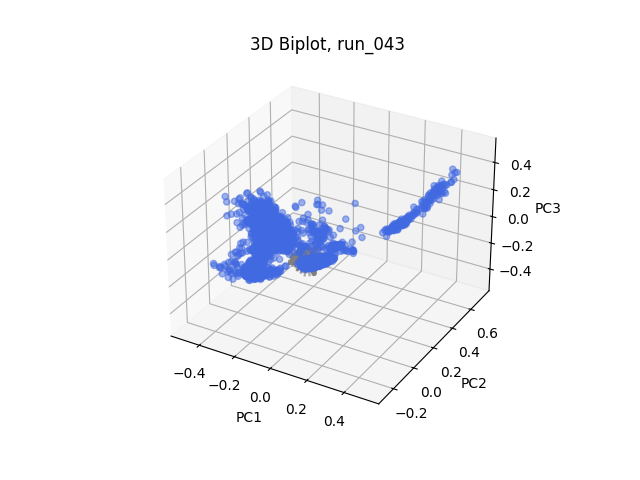
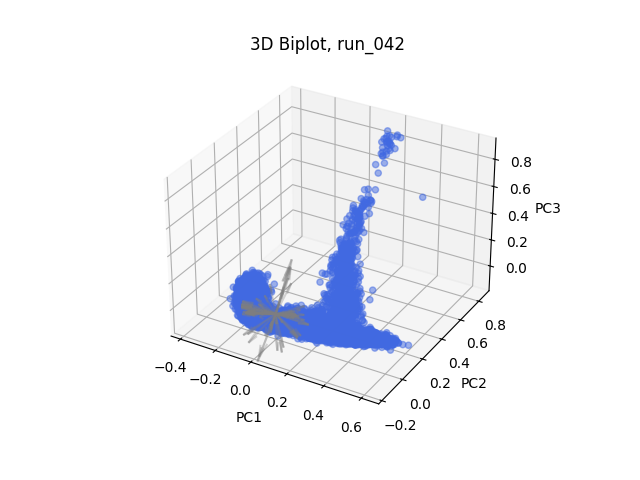
Updated PCA scripts and plots

diff --git a/new/plot_features_pca.py b/new/plot_features_pca.py
@@ -2,15 +2,20 @@ import os
 import pandas as pd
 import numpy as np
 import seaborn as sns
+import argparse
 from sklearn.decomposition import PCA
 from sklearn.preprocessing import StandardScaler
 import matplotlib.pyplot as plt
 
 from config import DATA_FEATURES_DIRECTORY
 
-RUN_NUMBER = 7
+# Initialise argument parser
+parser = argparse.ArgumentParser()
+parser.add_argument("run_number", type=int)
+args = parser.parse_args()
+run_number = args.run_number
 
-csv_path = os.path.join(DATA_FEATURES_DIRECTORY, f"run_{RUN_NUMBER:03d}.csv")
+csv_path = os.path.join(DATA_FEATURES_DIRECTORY, f"run_{run_number:03d}.csv")
 df = pd.read_csv(csv_path)
 
 # Only retain numeric columns with no NaN values
@@ -69,7 +74,7 @@ for i, varnames in enumerate(feature_names):
         head_width=0.01,
         alpha=0.3,
     )
-#  plt.text(xs[i], ys[i], varnames)
+plt.text(xs[i], ys[i], varnames)
 
 xticks = np.linspace(-0.8, 0.8, num=5)
 yticks = np.linspace(-0.8, 0.8, num=5)
@@ -78,6 +83,6 @@ plt.yticks(yticks)
 plt.xlabel("PC1")
 plt.ylabel("PC2")
 
-plt.title(f"2D Biplot, run_{RUN_NUMBER:03d}")
+plt.title(f"2D Biplot, run_{run_number:03d}")
 
 plt.savefig(f"plots/pca.png", bbox_inches='tight')

diff --git a/new/feature_extraction.py b/new/feature_extraction.py
@@ -131,6 +131,8 @@ def load_transient(h5_path, tran_name, time_data):
 def process_transient(df):
     # Remove NaN 'probe' data since it is causing issues with feature extraction
     df = df[df["transient"].notna()]
+    
+    # TODO use delta frequence -> subtract baseline freq from h5 files
 
     # Extract features of single transient
     # TODO use multiprocessing here dependant on how many thread this worker has available

diff --git a/mcb2022_analysis-main/offline/annotate_baseline_stats.py b/mcb2022_analysis-main/offline/annotate_baseline_stats.py
@@ -12,6 +12,8 @@ import util
 META_PROCESSING_STAGE = 2  # processing stage after completing this stage
 META_STAGE_2_VERSION = "2.0"  # version string for this stage (stage 2)
 
+#TODO move this script into processing pipeline
+
 # main changes
 # v1.0: baseline heuristics annotation (mean, std, std-of-mean, std-of-std) and outlier scoring
 # v2.0: fix baseline stats misattribution, compatibility with stage 1 v2.0

diff --git a/new/plot_features_pca_3d.py b/new/plot_features_pca_3d.py
@@ -10,7 +10,7 @@ import matplotlib.pyplot as plt
 
 from config import DATA_FEATURES_DIRECTORY
 
-N_COMPONENTS = 3
+N_COMPONENTS = 5
 
 # Initialise argument parser
 parser = argparse.ArgumentParser()
